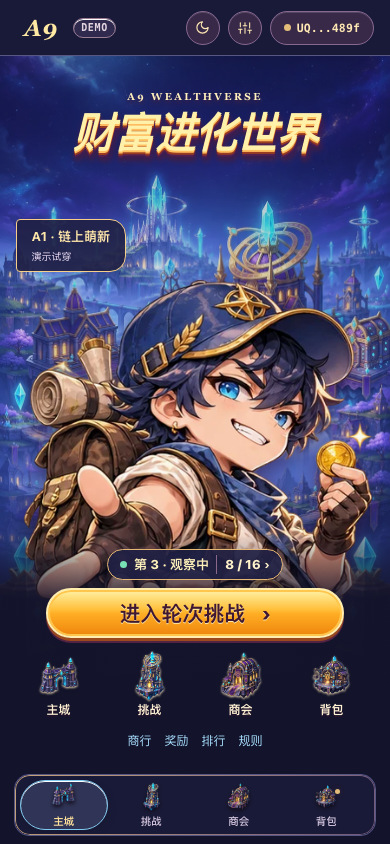
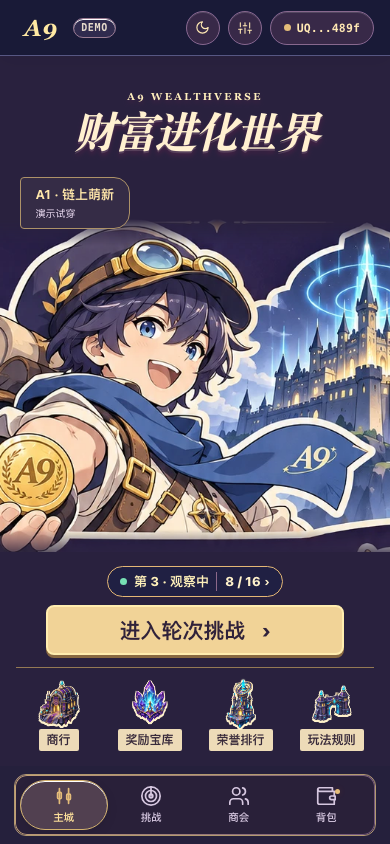
Unify frontend sticker styling and remove duplicate city navigation

diff --git a/a9-mini-app/css/game.css b/a9-mini-app/css/game.css
@@ -136,3 +136,28 @@ body[data-game-route] .app-main .card,body[data-game-route] .modal-sheet{border-
   .game-gates a:hover img,.game-gates a:focus-visible img{transform:translateY(-3px)}
   .game-gates img{transition:transform .15s ease}
 }
+
+/* Cream-edged illustration, plum paper and brass rules throughout the book. */
+body[data-game-route],[data-theme=light] body[data-game-route]{
+ --bg-canvas:#25203c;--bg-panel:#302943;--bg-header:#251e39;--text-primary:#fff2d8;--text-secondary:#e6dacb
+}
+.city-sky{background:#29213e}
+.city-sticker{position:absolute;top:26%;left:0;width:100%;height:44%;object-fit:contain}
+.city-profile{top:17%;left:5%;background:#352c46;border-color:#ad9268}
+.city-mast h1,.realm-banner h1,.observatory-status h1,.star-journal h1{color:#fff0d0;text-shadow:0 2px #57405b;font-family:Georgia,"Songti SC",serif}
+.city-controls{background:#29213e;padding-bottom:15px}
+.game-play{border-radius:8px;background:#f1d397;box-shadow:0 3px #896941;text-shadow:none;color:#30223a}
+.game-gates{border-top:1px solid #947954;padding-top:10px}
+.game-gates img,.crystal-preview img{filter:drop-shadow(1px 0 #fff1cb) drop-shadow(-1px 0 #fff1cb) drop-shadow(0 2px #fff1cb)}
+.game-gates a span{background:#eddbb8;color:#392b3b;text-shadow:none;padding:2px 8px;border-radius:2px}
+body[data-game-route] .app-tabbar{background:#292039;border:1px solid #b29a70;border-radius:12px}
+body[data-game-route] .dock-pill{background:#514050;border-color:#d4b36f}
+body[data-game-route] .app-main .card,body[data-game-route] #a9-radar-card,body[data-game-route] .modal-sheet{background:#302943;border:1px solid #796681;box-shadow:none}
+body[data-game-route] .card-title{font-family:Georgia,"Songti SC",serif;border-inline-start:3px solid #c6a363;padding-inline-start:8px}
+body[data-game-route] .realm-banner,.observatory-stage{background-color:#29213e;border-bottom:1px solid #b79d74}
+body[data-game-route] .realm-banner{background-image:var(--section-sticker,url('../assets/game-v2/gate-city.webp'));background-position:93% center;background-size:auto 90%;background-repeat:no-repeat}
+body[data-game-route^="/team"]{--section-sticker:url('../assets/game-v2/gate-guild.webp')}
+body[data-game-route="/profile"],body[data-game-route="/claim"]{--section-sticker:url('../assets/game-v2/gate-backpack.webp')}
+.observatory-stage{background:#29213e url('../assets/game-v2/gate-challenge.webp') 95% 28%/auto 68% no-repeat}
+body[data-game-route] .metric-strip,body[data-game-route] .candle-inspector{background:#272237}
+.city-sticker{top:23%;height:48%;object-fit:cover;object-position:42% 55%;mask-image:linear-gradient(transparent,#000 8%,#000 91%,transparent)}

diff --git a/a9-mini-app/js/pages/wealthverse.js b/a9-mini-app/js/pages/wealthverse.js
@@ -30,22 +30,20 @@ export function city() {
   const tier = store.state.user.previewTier || 1;
   const title = config.isDemo ? 'A' + tier + ' · ' + L(...tiers[tier - 1].slice(0, 2)) : waiting();
   const gates = [
-    ['/challenge','city',L('主城','City')],
-    ['/round','challenge',L('挑战','Challenge')],
-    ['/team','guild',L('商会','Guild')],
-    ['/profile','backpack',L('背包','Backpack')]
+    ['/internal/market','gate-guild',L('商行','Market')],
+    ['/rewards','crystal-legendary',L('奖励宝库','Rewards')],
+    ['/leaderboard','gate-challenge',L('荣誉排行','Rankings')],
+    ['/rules','gate-city',L('玩法规则','Rules')]
   ];
   return `<section class="wv-hero game-city">
     <div class="city-sky"></div>
     <div class="city-mast"><small>A9 WEALTHVERSE</small><h1>${L('财富进化世界','Wealthverse')}</h1></div>
     <a class="city-profile" href="#/gallery"><b>${title}</b><span>${config.isDemo ? L('演示试穿','Demo preview') : L('持仓待核验','Holdings unverified')}</span></a>
-    ${config.isDemo ? portrait(tier) : ''}
+    ${config.isDemo && tier === 1 ? '<img class="city-sticker" src="./assets/game-v2/city-sticker.webp" alt="A1">' : config.isDemo ? portrait(tier) : ''}
     <div class="city-controls"><div class="city-round"><i></i>${L('第','Round')} ${r.currentRound ?? '—'} · ${stageLabel(r.stage)}<a href="#/observation/records">${r.qualifiedCandles ?? '—'} / ${r.minQualifiedCandles ?? 16} ›</a></div>
     <a class="game-play" href="#/round">${L('进入轮次挑战','Enter challenge')} <b>›</b></a>
-    <nav class="game-gates">${gates.map(([path,asset,label])=>`<a href="#${path}"><img src="./assets/game-v2/gate-${asset}.webp" alt=""><span>${label}</span></a>`).join('')}</nav>
-    <nav class="city-links" aria-label="${L('主城服务','City services')}">
-      ${[['/internal/market', L('商行','Market')], ['/rewards', L('奖励','Rewards')], ['/leaderboard', L('排行','Rankings')], ['/rules', L('规则','Rules')]].map(([path,label]) => `<a href="#${path}">${label}</a>`).join('')}
-    </nav></div></section>`;
+    <nav class="game-gates">${gates.map(([path,asset,label])=>`<a href="#${path}"><img src="./assets/game-v2/${asset}.webp" alt=""><span>${label}</span></a>`).join('')}</nav>
+</div></section>`;
 }
 export function gallery(root, navigate, param) {
   const n = Number(param) || 1;

diff --git a/a9-mini-app/js/app.js b/a9-mini-app/js/app.js
@@ -176,7 +176,7 @@ function renderTabBar(route) {
   if (!tabbarEl.querySelector('.dock-pill')) {
     tabbarEl.innerHTML = `<div class="dock-pill" id="dock-pill"></div>` + TABS.map(item => `
       <button class="tab-item" data-tab-key="${item.key}" data-nav="${item.path}">
-        <img class="realm-nav-icon" src="./assets/game-v2/gate-${{challenge:'city',round:'challenge',team:'guild',profile:'backpack'}[item.key]}.webp" alt="">
+        ${icon(item.ic, 22)}
         <span class="tab-lbl">${t(item.labelKey)}</span>
         ${item.key === 'profile' ? '<span class="tab-badge hidden" id="profile-tab-badge"></span>' : ''}
       </button>

diff --git a/docs/gamification/phase-2-handoff.md b/docs/gamification/phase-2-handoff.md
@@ -19,3 +19,7 @@ A9_TEST_URL=http://127.0.0.1:18761 A9_SCREENSHOTS=output/phase-2-acceptance node
 浏览器脚本需要 Playwright 与 Chromium。可分别通过 `PLAYWRIGHT_MODULE` 和 `CHROMIUM_PATH` 传入本机路径。原始输出、页面截图与测试记录见 [phase-2-evidence](phase-2-evidence/)。Chromium 验证覆盖 390×844 中文、360×780 英文、旧路由、四个建筑链接、商行入口、水晶预览、图片失败及真实模式隔离。真实模式使用隔离接口验证。
 
 待独立验收项包括 Telegram iOS/Android 真机安全区、低端机帧率及真实弱网加载耗时。
+
+## 前端视觉复核更新
+
+主城从负责人选定的贴纸样品中提取角色插画，轮次状态、按钮及文字独立渲染。底栏承担四个主栏目导航，主城内的贴纸入口分别通往商行、奖励、排行和规则。共享面板及场景标题采用深紫底、暖金分隔和奶油色文字。两种手机视口的 52 项页面检查已重新通过，上列证据目录中的截图已更新。
